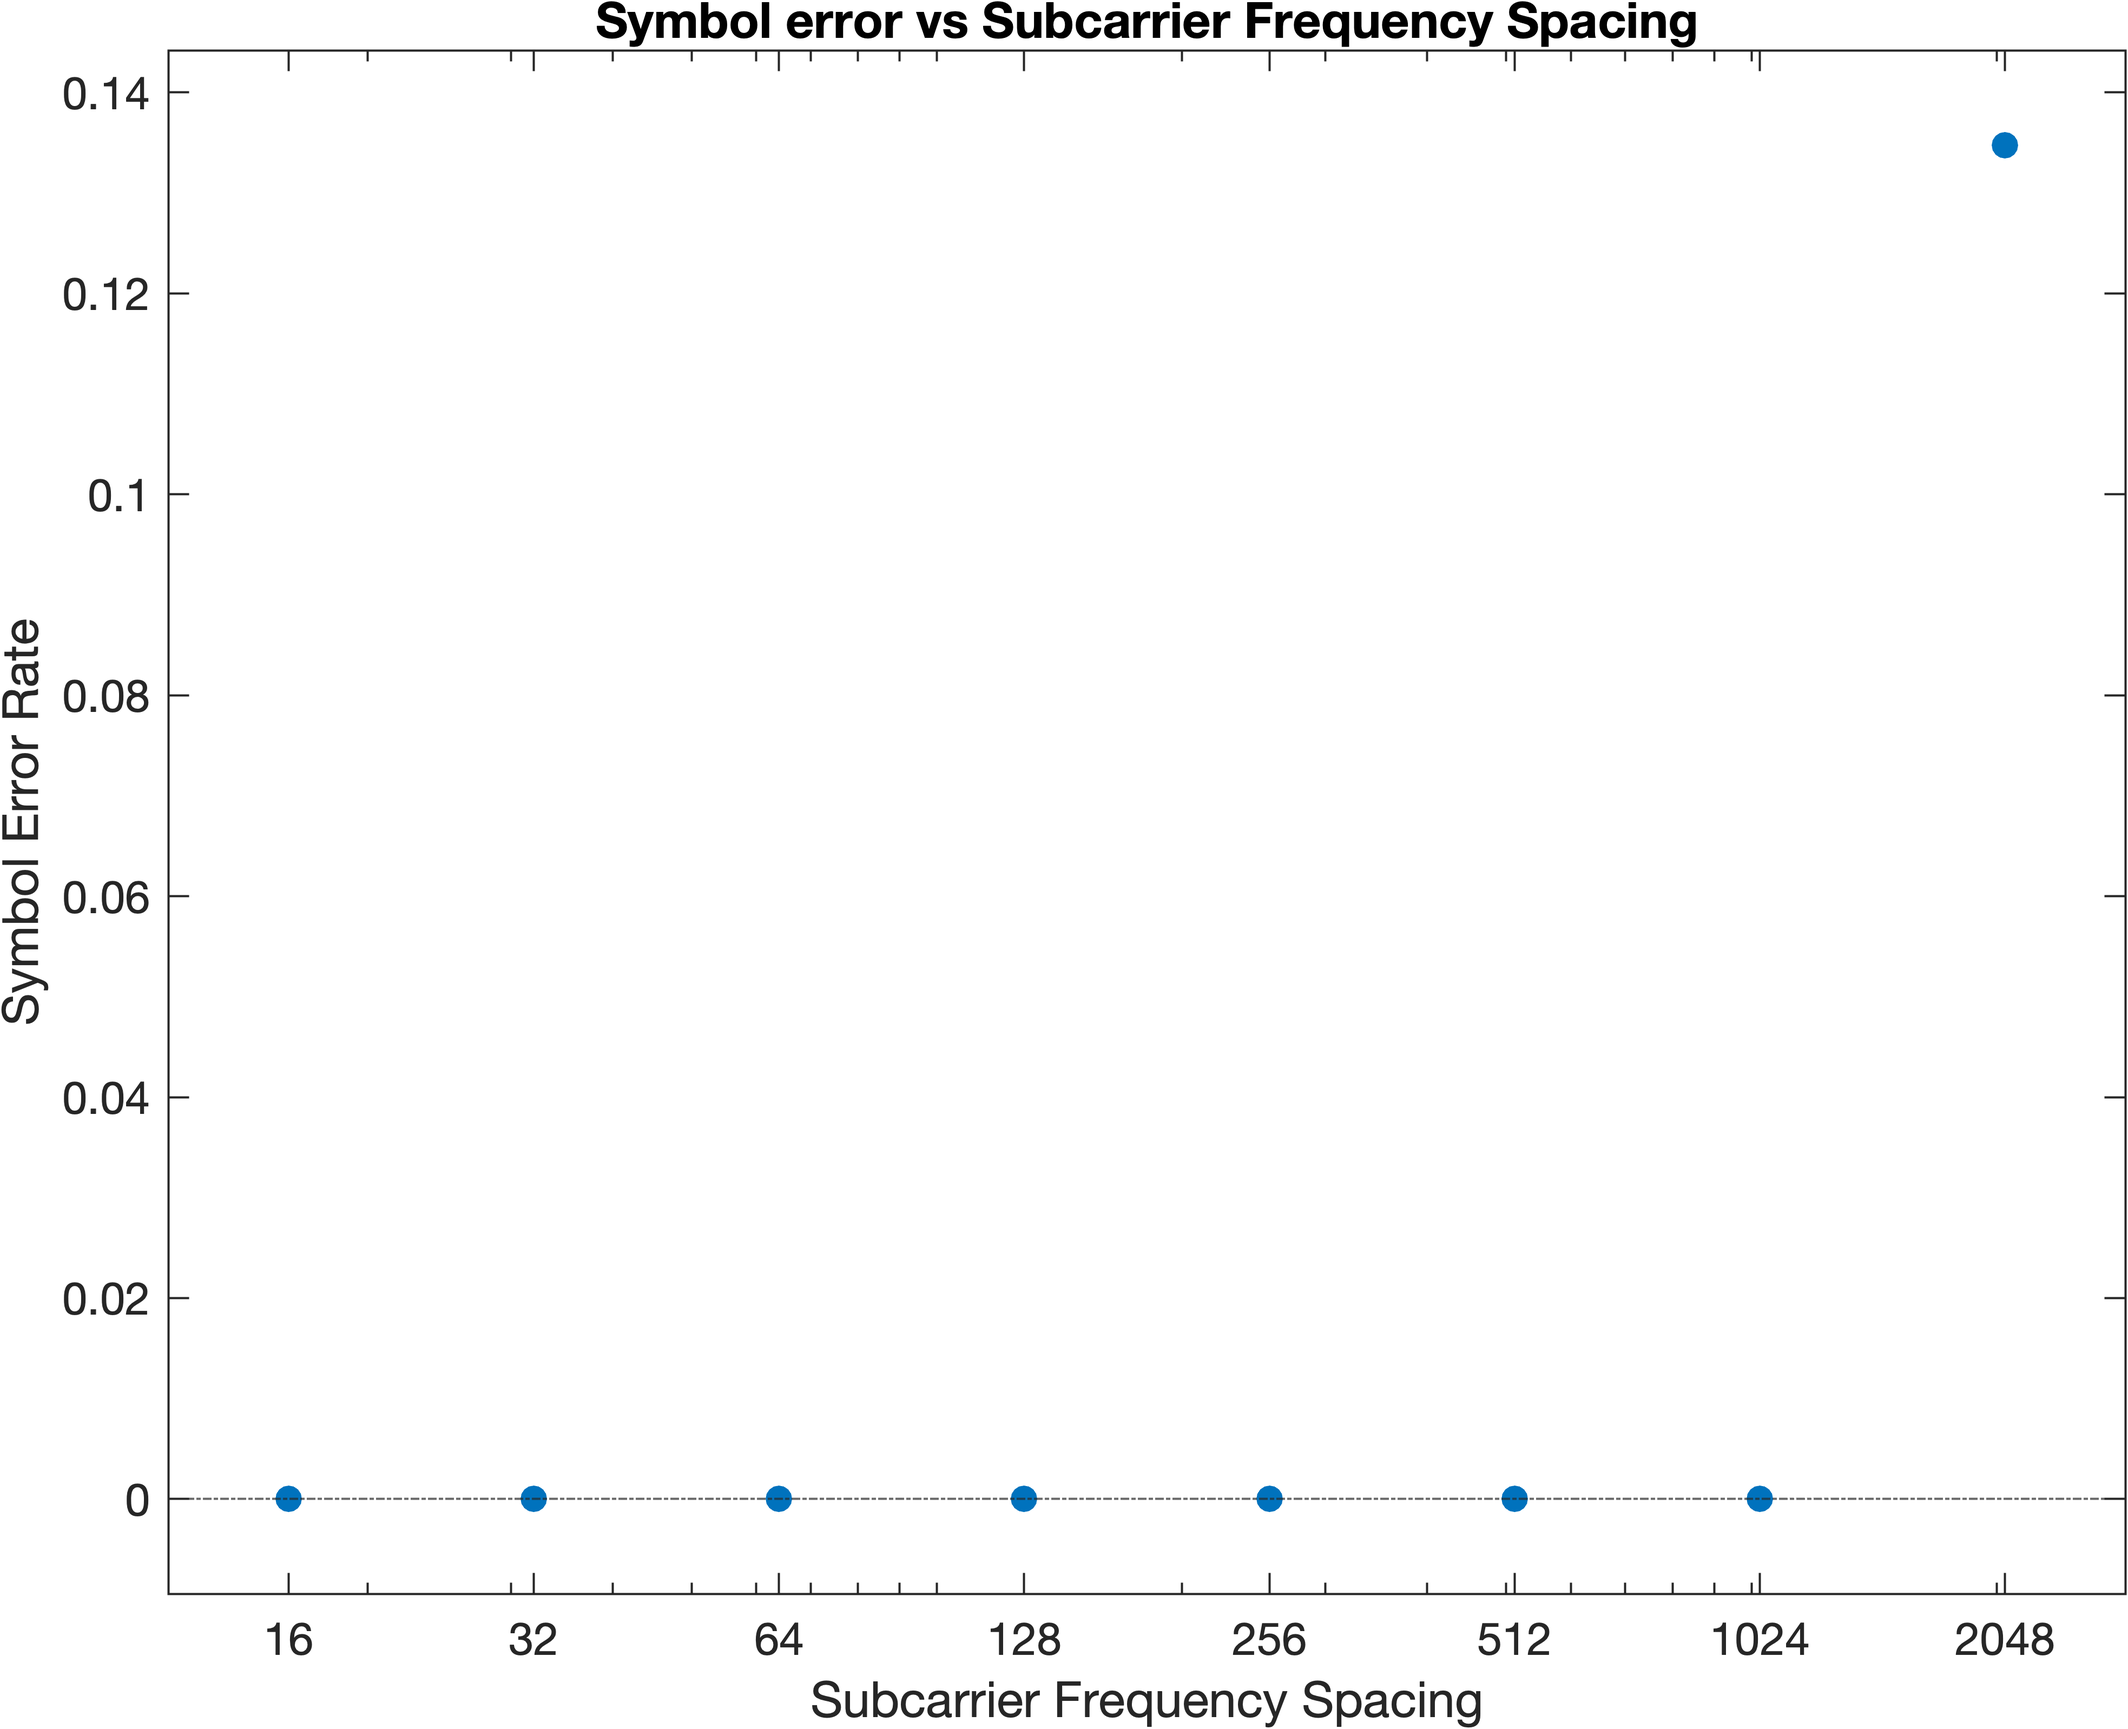
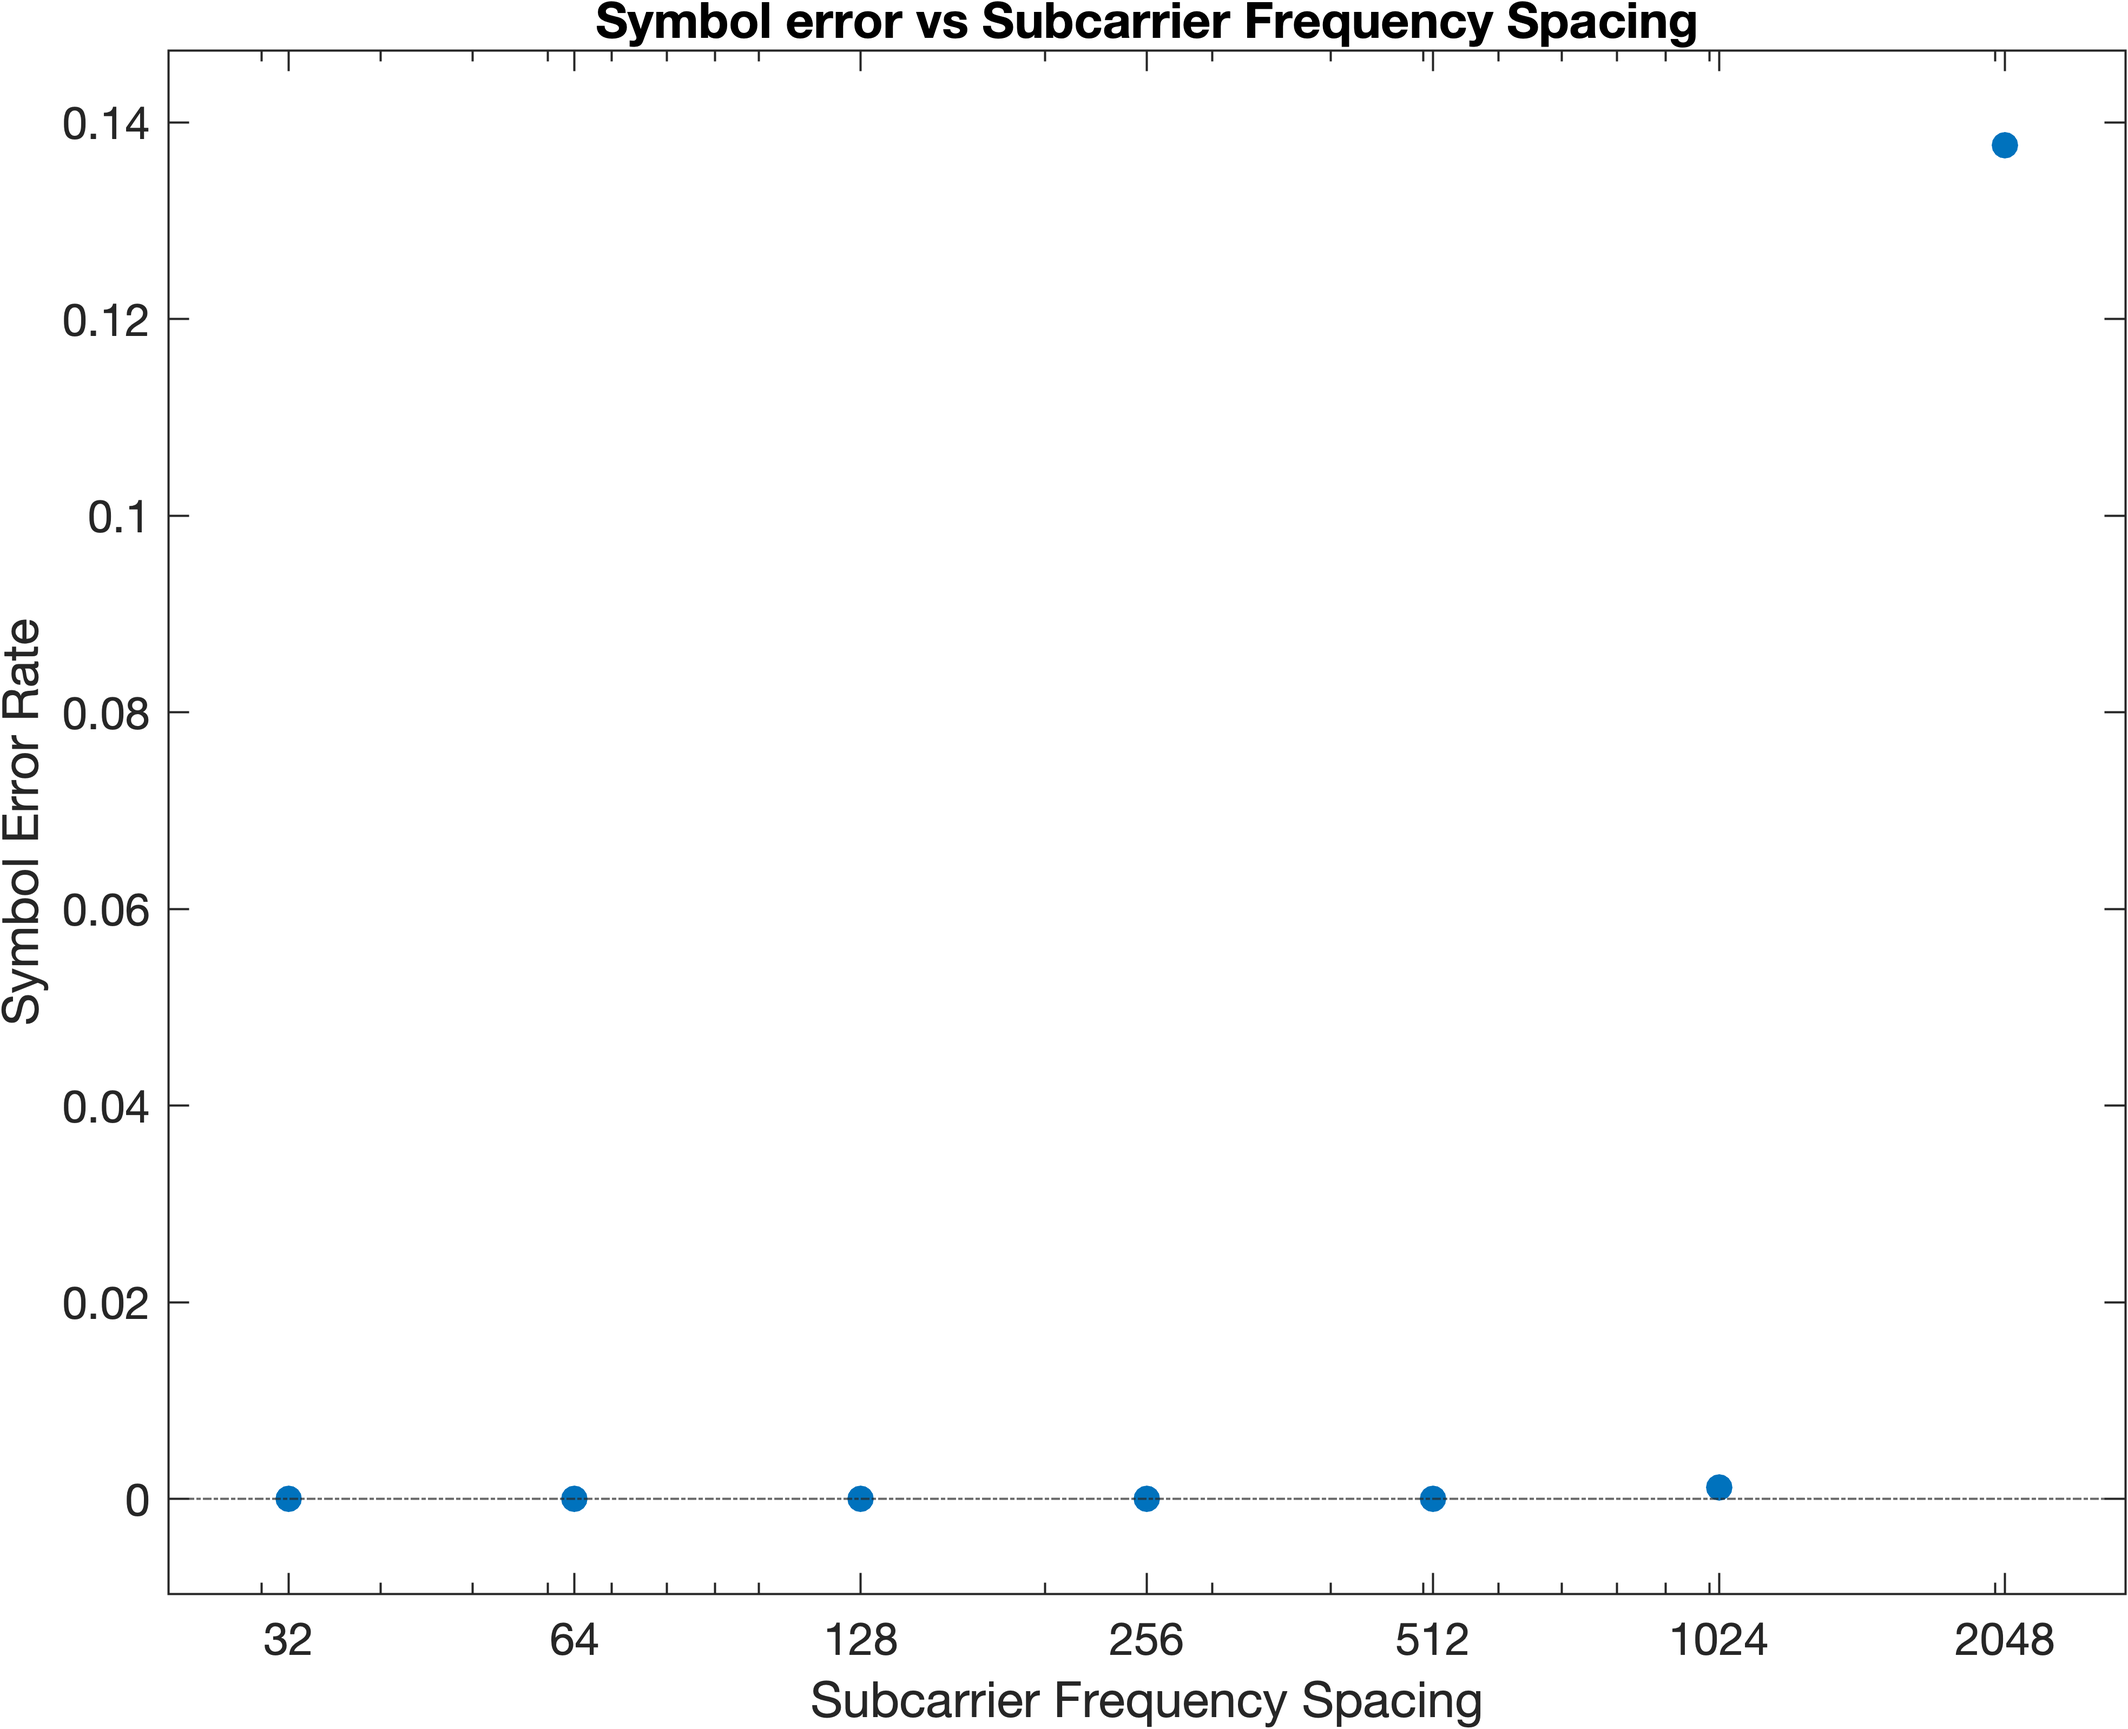
test okay

diff --git a/project_matlab/main.m b/project_matlab/main.m
@@ -25,14 +25,14 @@ image_file = 'pyramid.png';
 %% Select the data to transmit
 
 %% change the cyclic prefix len
-num_sub_carrier_list = [16 32 64 128 256 512 1024 2048];
+num_sub_carrier_list = [32 64 128 256 512 1024 2048 2^12 2^13];
 SER_list = zeros(1, length(num_sub_carrier_list));
 
 
 
 for x=1:length(num_sub_carrier_list)
 
-conf.N       = num_sub_carrier_list(x)  % number of subcarriers
+conf.N       = num_sub_carrier_list(x);  % number of subcarriers
 
 
 
@@ -51,8 +51,6 @@ conf.cyclic_prefix_len    = conf.N/2;
 
 
 
-    
-    conf.frequency_spacing    = 5;%num_sub_carrier_list(x);
     
     conf.preamble_len         = 100;
     
@@ -168,8 +166,8 @@ end
 
 figure();
 semilogx(num_sub_carrier_list, SER_list, '.', 'MarkerSize',20);
-title("Symbol error vs Subcarrier Frequency Spacing");
-xlabel("Subcarrier Frequency Spacing");
+title("Symbol error vs Number of Subcarriers");
+xlabel("Number of Subcarriers");
 ylabel("Symbol Error Rate");
 axis padded;
 yline(0, '-.');
@@ -177,4 +175,4 @@ xticks(num_sub_carrier_list)
 
 
 
-exportgraphics(gcf,'plots/SER_FreqSpacing_test.png','Resolution',600)
+exportgraphics(gcf,'plots/SER_number_of_subcarriers_test.png','Resolution',600)

diff --git a/project_matlab/functions/init_conf.m b/project_matlab/functions/init_conf.m
@@ -3,9 +3,12 @@ function [conf] = init_conf(conf, txbits)
   % DO NOT TOUCH
     conf.f_sampling           = 48000;   % sampling rate
     
+    conf.frequency_spacing    = 5;
+    
     conf.f_symbol_data        = conf.frequency_spacing * conf.N; % symbol rate = 50 [Hz]
     conf.f_symbol_preamble    = 500;
     
+
     % conf.num_frames           = 1;       % number of frames to transmit
     % conf.gap_between_frames   = 0;
 
@@ -16,7 +19,7 @@ function [conf] = init_conf(conf, txbits)
     conf.os_factor_data       = conf.f_sampling / conf.f_symbol_data;
     conf.os_factor_preamble   = conf.f_sampling / conf.f_symbol_preamble;
     
-    conf.BW                   = ceil((conf.N+1)/2) * 5;
+    conf.BW                   = ceil((conf.N+1)/2) * conf.frequency_spacing;
     
     
     conf.tx_filter_len        = 10*conf.os_factor_preamble; % essayer de trouver une manière de déterminer leur valeur bien
